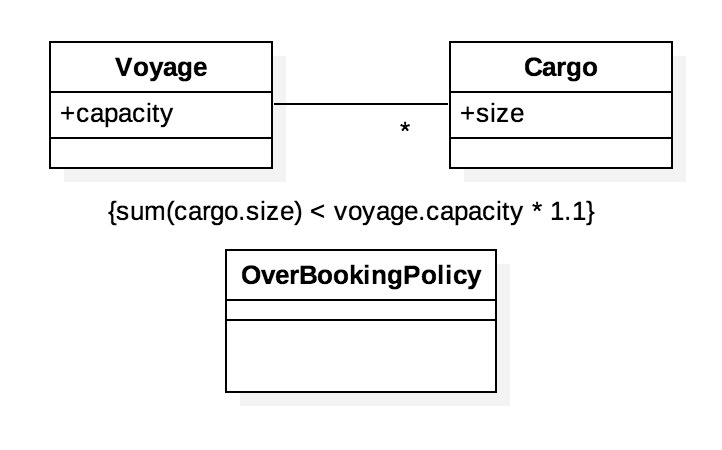
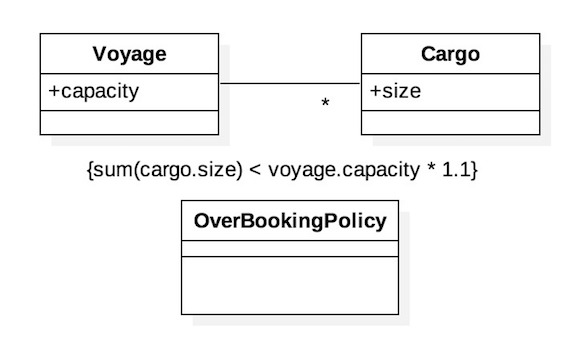
이미지 리사이즈 제거

diff --git a/_site/2015/09/28/ddd-chapter-01/index.html b/_site/2015/09/28/ddd-chapter-01/index.html
@@ -167,7 +167,7 @@
 <li>선박화물 운송 예약을 위한 어플리케이션 도메인 모델</li>
 </ul>
 
-<p><img src="/generated/2015/09/DDD-1-8-580x182-8f1398.jpg" class="user-portrait" itemprop="image" alt="그림 1-8" data-downloadable="true" ></p>
+<p><img src="/images/2015/09/DDD-1-8.jpg" alt="그림 1-8"></p>
 <div class="highlight"><pre><code class="language-Java" data-lang="Java"><span class="kd">public</span> <span class="kt">int</span> <span class="nf">makeBooking</span><span class="o">(</span><span class="n">Cargo</span> <span class="n">cargo</span><span class="o">,</span> <span class="n">Voyage</span> <span class="n">voyage</span><span class="o">)</span> <span class="o">{</span>
   <span class="kt">int</span> <span class="n">confirmation</span> <span class="o">=</span> <span class="n">orderConfirmationSequence</span><span class="o">.</span><span class="na">next</span><span class="o">();</span>
   <span class="n">voyage</span><span class="o">.</span><span class="na">addCargo</span><span class="o">(</span><span class="n">cargo</span><span class="o">,</span> <span class="n">confirmation</span><span class="o">);</span>
@@ -176,10 +176,10 @@
 </code></pre></div>
 <ul>
 <li>요구사항 추가
-<strong>10% 초과예약 허용</strong>
-*
-<img src="/generated/2015/09/DDD-1-9-580x182-86f74d.jpg" class="user-portrait" itemprop="image" alt="그림 1-9" data-downloadable="true" ></li>
+<strong>10% 초과예약 허용</strong></li>
 </ul>
+
+<p><img src="/images/2015/09/DDD-1-9.jpg" alt="그림 1-9"></p>
 <div class="highlight"><pre><code class="language-Java" data-lang="Java"><span class="kd">public</span> <span class="kt">int</span> <span class="nf">makeBooking</span><span class="o">(</span><span class="n">Cargo</span> <span class="n">cargo</span><span class="o">,</span> <span class="n">Voyage</span> <span class="n">voyage</span><span class="o">)</span> <span class="o">{</span>
   <span class="kt">double</span> <span class="n">maxBooking</span> <span class="o">=</span> <span class="n">voyage</span><span class="o">.</span><span class="na">capacity</span><span class="o">()</span> <span class="o">*</span> <span class="mf">1.1</span><span class="o">;</span>
   <span class="k">if</span> <span class="o">((</span><span class="n">voyage</span><span class="o">.</span><span class="na">bookedCargosize</span><span class="o">()</span> <span class="o">+</span> <span class="n">cargo</span><span class="o">.</span><span class="na">size</span><span class="o">())</span> <span class="o">&gt;</span> <span class="n">maxBooking</span><span class="o">)</span>
@@ -193,7 +193,7 @@
 <li><strong>10% 초과 예약</strong> 은 정책이고 이는 전략패턴으로 구조화 할 수 있다.</li>
 </ul>
 
-<p><img src="/generated/2015/09/DDD-1-10-580x361-41a9df.jpg" class="user-portrait" itemprop="image" alt="그림 1-9" data-downloadable="true" ></p>
+<p><img src="/images/2015/09/DDD-1-10.jpg" alt="그림 1-10"></p>
 <div class="highlight"><pre><code class="language-Java" data-lang="Java"><span class="kd">public</span> <span class="kt">int</span> <span class="nf">makeBooking</span><span class="o">(</span><span class="n">Cargo</span> <span class="n">cargo</span><span class="o">,</span> <span class="n">Voyage</span> <span class="n">voyage</span><span class="o">)</span> <span class="o">{</span>
   <span class="k">if</span> <span class="o">(!</span><span class="n">overbookingPolicy</span><span class="o">.</span><span class="na">isAllowed</span><span class="o">(</span><span class="n">cargo</span><span class="o">,</span> <span class="n">voyage</span><span class="o">))</span> <span class="k">return</span> <span class="o">-</span><span class="mi">1</span><span class="o">;</span>
   <span class="kt">int</span> <span class="n">confirmation</span> <span class="o">=</span> <span class="n">orderConfirmationSequence</span><span class="o">.</span><span class="na">next</span><span class="o">();</span>

diff --git a/_site/2015/09/28/ddd-chapter-02/index.html b/_site/2015/09/28/ddd-chapter-02/index.html
@@ -298,11 +298,13 @@
 
 <h3 id="예제-해운-활동과-항로">예제 : 해운 활동과 항로</h3>
 
-<p><img src="/generated/2015/09/DDD-2-4-580x599-108608.jpg" class="user-portrait" itemprop="image" alt="그림 2-4" data-downloadable="true" >
-<em>기술적 모델</em></p>
+<p><img src="/images/2015/09/DDD-2-4.jpg" alt="그림 2-4"></p>
 
-<p><img src="/generated/2015/09/DDD-2-5-580x201-06a6a5.png" class="user-portrait" itemprop="image" alt="그림 2-5" data-downloadable="true" >
-<em>설명을 위한 모델</em></p>
+<p><em>기술적 모델</em></p>
+
+<p><img src="/images/2015/09/DDD-2-5.png" alt="그림 2-5"></p>
+
+<p><em>설명을 위한 모델</em></p>
 
     <hr>
     <div class="pagination">
